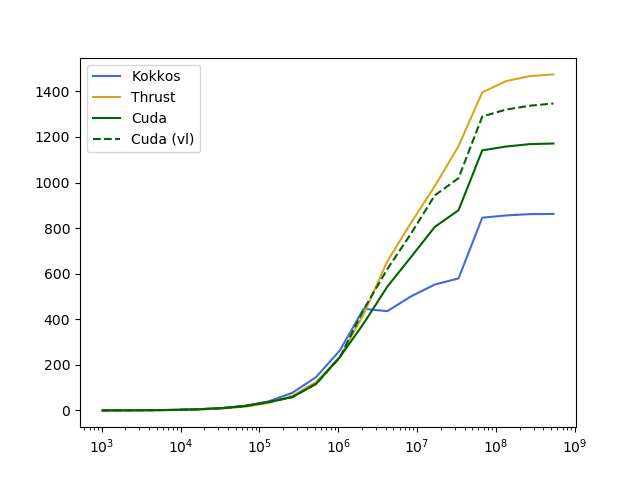
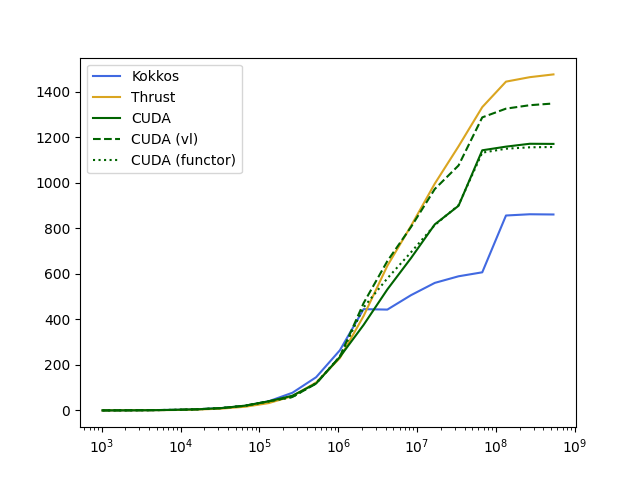
Update benchmark01

diff --git a/benchmark01/benchmark01.cc b/benchmark01/benchmark01.cc
@@ -76,6 +76,39 @@ __global__ void l2norm_vl(T *__restrict__ sums, T *__restrict__ data,
     }
 }
 
+template <typename T, typename Functor>
+__global__ void reduceSumKernel(const unsigned int begin,
+                                const unsigned int end, T *buffer,
+                                Functor functor)
+{
+    // Implementation based on reduce7 of "Ansorge, R. (2022). Programming in
+    // parallel with CUDA: a practical guide. Cambridge University Press."
+
+    auto grid  = cg::this_grid();
+    auto block = cg::this_thread_block();
+    auto warp  = cg::tiled_partition<32>(block);
+    T v        = 0;
+
+    for (unsigned int tid = begin + grid.thread_rank(); tid < end;
+         tid += grid.size())
+    {
+        functor(tid, v);
+    }
+
+    warp.sync();
+    v += warp.shfl_down(v, 16); // |
+    v += warp.shfl_down(v, 8);  // | warp level
+    v += warp.shfl_down(v, 4);  // | reduce here
+    v += warp.shfl_down(v, 2);  // |
+    v += warp.shfl_down(v, 1);  // |
+
+    // use atomicAdd to sum over warps
+    if (warp.thread_rank() == 0)
+    {
+        atomicAdd(&buffer[block.group_index().x], v);
+    }
+}
+
 template <typename T, bool vl = false>
 __global__ void reduce_vl(T *__restrict__ sums, T *__restrict__ data,
                           unsigned int n)
@@ -135,6 +168,18 @@ __global__ void reduce_vl(T *__restrict__ sums, T *__restrict__ data,
     }
 }
 
+template <typename T, bool vl = false>
+__global__ void set_data(T *__restrict__ data, unsigned int n)
+{
+
+    unsigned int i = blockDim.x * blockIdx.x + threadIdx.x;
+    while (i < n)
+    {
+        data[i] = i % 13 + (0.2 + 0.00001 * (i % 100191));
+        i += blockDim.x * gridDim.x;
+    }
+}
+
 template <typename T> void run_test(const unsigned int size)
 {
     Timer time;
@@ -176,9 +221,8 @@ template <typename T> void run_test(const unsigned int size)
         {
             time.start();
             result_thrust = thrust::transform_reduce(
-                ddata.begin(), ddata.end(),
-                [] __device__(const T &x) { return x * x; }, (T)0.0,
-                thrust::plus<T>());
+                ddata.begin(), ddata.end(), [] __device__(const T &x)
+                { return x * x; }, (T)0.0, thrust::plus<T>());
             time.stop();
             time_thrust = std::min(time_thrust, time.elapsedSeconds());
         }
@@ -188,77 +232,106 @@ template <typename T> void run_test(const unsigned int size)
     double time_cuda1 = std::numeric_limits<double>::max();
     T result_cuda1;
     {
+        T *ddata, *sums, *result;
         const unsigned int threads = 256u;
-        const unsigned int blocks  = std::min((size + threads - 1) / threads, 1024u);
-        thrust::device_vector<T> ddata(size);
-        thrust::tabulate(ddata.begin(), ddata.end(),
-                         [] __device__(unsigned int i)
-                         { return i % 13 + (0.2 + 0.00001 * (i % 100191)); });
+        const unsigned int blocks =
+            std::min((size + threads - 1) / threads, 1024u);
+        cudaMalloc(&ddata, size * sizeof(T));
+        set_data<<<blocks, threads>>>(ddata, size);
+	cudaMalloc(&sums, blocks * sizeof(T));
+	cudaMalloc(&result, sizeof(T));
         for (unsigned int t = 0; t < n_tests; ++t)
         {
             time.start();
-            T *sums, *result;
-            cudaMalloc(&sums, blocks * sizeof(T));
-            cudaMalloc(&result, sizeof(T));
             cudaMemset(sums, 0, blocks * sizeof(T));
             cudaMemset(result, 0, sizeof(T));
-            l2norm_vl<T, false>
-                <<<blocks, threads>>>(sums, ddata.data().get(), size);
+            l2norm_vl<T, false><<<blocks, threads>>>(sums, ddata, size);
             reduce_vl<T, false><<<1, blocks>>>(result, sums, blocks);
             cudaMemcpy(&result_cuda1, result, sizeof(T),
                        cudaMemcpyDeviceToHost);
             time.stop();
             time_cuda1 = std::min(time_cuda1, time.elapsedSeconds());
-            cudaFree(sums);
-            cudaFree(result);
         }
+	cudaFree(sums);
+	cudaFree(result);
     }
 
     // CUDA kernels 2 - Vector loading
     double time_cuda2 = std::numeric_limits<double>::max();
     T result_cuda2;
     {
+        T *ddata, *sums, *result;
         const unsigned int threads = 256u;
-        const unsigned int blocks  = std::min((size + threads - 1) / threads, 1024u);
-        thrust::device_vector<T> ddata(size);
-        thrust::tabulate(ddata.begin(), ddata.end(),
-                         [] __device__(unsigned int i)
-                         { return i % 13 + (0.2 + 0.00001 * (i % 100191)); });
+        const unsigned int blocks =
+            std::min((size + threads - 1) / threads, 1024u);
+        cudaMalloc(&ddata, size * sizeof(T));
+        set_data<<<blocks, threads>>>(ddata, size);
+	cudaMalloc(&sums, blocks * sizeof(T));
+	cudaMalloc(&result, sizeof(T));
         for (unsigned int t = 0; t < n_tests; ++t)
         {
             time.start();
-            T *sums, *result;
-            cudaMalloc(&sums, blocks * sizeof(T));
-            cudaMalloc(&result, sizeof(T));
             cudaMemset(sums, 0, blocks * sizeof(T));
             cudaMemset(result, 0, sizeof(T));
-            l2norm_vl<T, true>
-                <<<blocks, threads>>>(sums, ddata.data().get(), size);
+            l2norm_vl<T, true><<<blocks, threads>>>(sums, ddata, size);
             reduce_vl<T, true><<<1, blocks>>>(result, sums, blocks);
             cudaMemcpy(&result_cuda2, result, sizeof(T),
                        cudaMemcpyDeviceToHost);
             time.stop();
             time_cuda2 = std::min(time_cuda2, time.elapsedSeconds());
-            cudaFree(sums);
-            cudaFree(result);
         }
+	cudaFree(sums);
+	cudaFree(result);
+    }
+
+    // CUDA kernels 3 - functor
+    double time_cuda3 = std::numeric_limits<double>::max();
+    T result_cuda3;
+    {
+        T *ddata, *sums, *result;
+        const unsigned int threads = 256u;
+        const unsigned int blocks =
+            std::min((size + threads - 1) / threads, 1024u);
+        cudaMalloc(&ddata, size * sizeof(T));
+        set_data<<<blocks, threads>>>(ddata, size);
+	cudaMalloc(&sums, blocks * sizeof(T));
+	cudaMalloc(&result, sizeof(T));
+        for (unsigned int t = 0; t < n_tests; ++t)
+        {
+            time.start();
+            cudaMemset(sums, 0, blocks * sizeof(T));
+            cudaMemset(result, 0, sizeof(T));
+            reduceSumKernel<<<blocks, threads>>>(
+                0, size, sums, [=] __device__(const unsigned int i, T &sum)
+                { sum += ddata[i] * ddata[i]; });
+            reduce_vl<T, true><<<1, blocks>>>(result, sums, blocks);
+            cudaMemcpy(&result_cuda3, result, sizeof(T),
+                       cudaMemcpyDeviceToHost);
+            time.stop();
+            time_cuda3 = std::min(time_cuda3, time.elapsedSeconds());
+        }
+	cudaFree(sums);
+	cudaFree(result);
     }
 
     // Display results
     std::cout << std::setprecision(10);
     std::cout << "Size " << size
-              << " Case:     Kokkos      Thrust      Cuda        Cuda (vl)"
+              << " Case:     Kokkos      Thrust      CUDA        CUDA (vl)     "
+                 "   CUDA (functor)"
               << std::endl;
     std::cout << "Size " << size << " norm: " << std::sqrt(result_kokkos) << " "
               << std::sqrt(result_thrust) << " "
               << " " << std::sqrt(result_cuda1) << " "
-              << std::sqrt(result_cuda2) << std::endl;
+              << std::sqrt(result_cuda2) << " " << std::sqrt(result_cuda3)
+              << std::endl;
 
     std::cout << "Size " << size
               << " GB/s: " << sizeof(T) * 1e-9 * size / time_kokkos << " "
               << sizeof(T) * 1e-9 * size / time_thrust << " "
               << sizeof(T) * 1e-9 * size / time_cuda1 << " "
-              << sizeof(T) * 1e-9 * size / time_cuda2 << std::endl;
+              << sizeof(T) * 1e-9 * size / time_cuda2 << " "
+              << sizeof(T) * 1e-9 * size / time_cuda3 << std::endl;
 }
 
 int main(int argc, char **argv)

diff --git a/benchmark01/postprocess.py b/benchmark01/postprocess.py
@@ -9,11 +9,11 @@ for fname in glob.glob('./*.log'):
     for line in lines:
         if "Size" in line and "GB/s" in line: data.append(line)
 
-    labels = ["Kokkos", "Thrust", "Cuda", "Cuda (vl)"]
+    labels = ["Kokkos", "Thrust", "CUDA", "CUDA (vl)", "CUDA (functor)"]
     nelmts = [float(line.split()[1]) for line in data]
     GBs    = [[float(GB) for GB in line.split()[3:]] for line in data]
-    colors = ["royalblue", "goldenrod", "darkgreen", "darkgreen"]
-    linestyles = ["-",  "-", "-", "--"]
+    colors = ["royalblue", "goldenrod", "darkgreen", "darkgreen", "darkgreen"]
+    linestyles = ["-",  "-", "-", "--", ":"]
 
     plt.figure()
     for i in range(0, len(GBs[0])):
